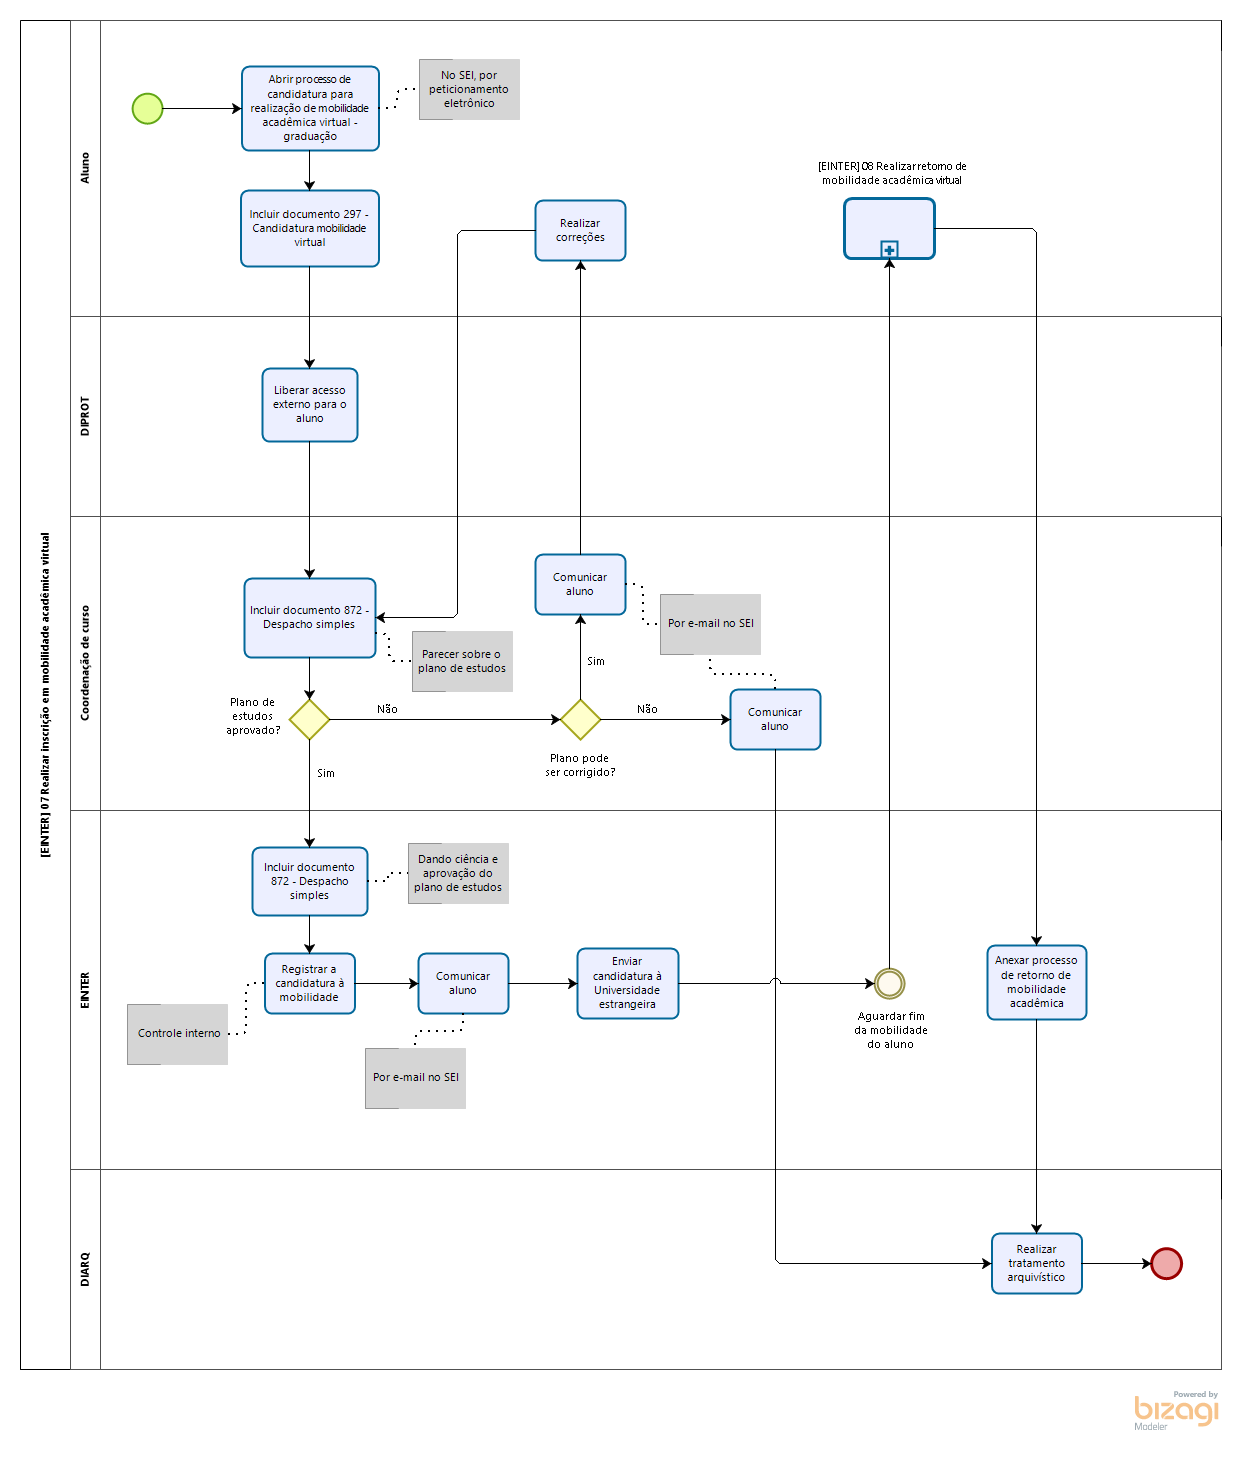
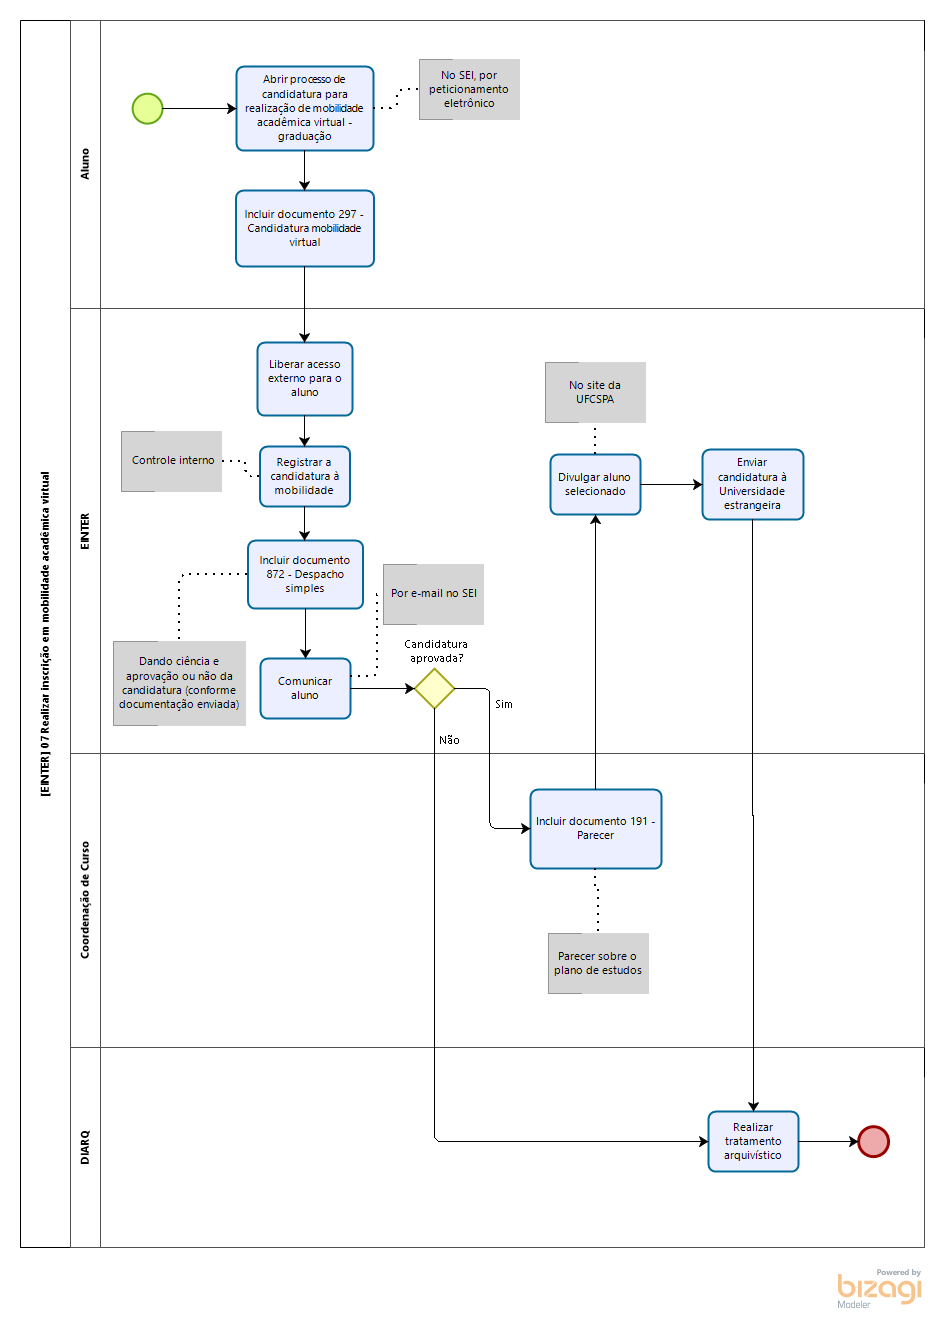
EINTER

diff --git a/EINTER/EINTER 07 Realizar inscrição em mobilidade acadêmica virtual/libs/js/json/configuration.json.js b/EINTER/EINTER 07 Realizar inscrição em mobilidade acadêmica virtual/libs/js/json/configuration.json.js
@@ -1,1 +1,1 @@
-Bizagi.AppModel = {"personalized":false,"userLogoName":"\\libs\\img\\biz-ex-logo.png","bizagiUrl":"http://www.bizagi.com","productName":"Bizagi Modeler","modelName":"[EINTER] 07 Realizar inscrição em mobilidade acadêmica virtual","publishDate":"08/01/2021 16:09:59","pages":[{"id":"bd65ea29-fe01-41e2-ac18-f9216eb6a3e4","name":"[EINTER] 07 Realizar inscrição em mobilidade acadêmica virtual","version":"1.0","author":"ariel","image":"files\\diagrams\\EINTER]_07_Realizar_inscricao_em_mobilidade_academica_virtual.png","isSubprocessPage":false,"elements":[{"id":"052716db-96c6-403f-a4b2-4a5cc1fde8a3","name":"[EINTER] 07 Realizar inscrição em mobilidade acadêmica virtual","elementImage":"files\\bpmnElements\\Participant.png","imageBounds":{"points":[{"x":20.0,"y":20.0}],"radius":0.0,"height":1349.0,"width":50.0,"shape":"rect"},"elementType":"Participant","properties":[],"pageElements":[{"id":"376d906c-615d-4899-b999-ecc5d0caaed7","name":"Nenhum início","elementImage":"files\\bpmnElements\\NoneStart.png","imageBounds":{"points":[{"x":132.0,"y":93.0}],"radius":15.0,"height":30.0,"width":30.0,"shape":"circle"},"elementType":"NoneStart"},{"id":"8fa2b779-43ec-4048-b458-a8caac88d4a4","name":"Abrir processo de  candidatura para realização de mobilidade acadêmica virtual - graduação","elementImage":"files\\bpmnElements\\AbstractTask.png","imageBounds":{"points":[{"x":241.5,"y":66.0}],"radius":0.0,"height":84.0,"width":137.0,"shape":"rect"},"elementType":"AbstractTask","properties":[]},{"id":"4cb5a535-b1b9-4ac0-899f-54eb8167627f","name":"Incluir documento 297 - Candidatura mobilidade virtual","elementImage":"files\\bpmnElements\\AbstractTask.png","imageBounds":{"points":[{"x":240.5,"y":190.0}],"radius":0.0,"height":76.0,"width":138.0,"shape":"rect"},"elementType":"AbstractTask","properties":[]},{"id":"42d70476-98c9-4855-bb46-4884d1083e8d","name":"Liberar acesso externo para o aluno","elementImage":"files\\bpmnElements\\AbstractTask.png","imageBounds":{"points":[{"x":262.0,"y":368.0}],"radius":0.0,"height":73.0,"width":95.0,"shape":"rect"},"elementType":"AbstractTask","properties":[]},{"id":"ef36c856-b52e-4ab9-acda-3b783efdb496","name":"Incluir documento 872 - Despacho simples ","elementImage":"files\\bpmnElements\\AbstractTask.png","imageBounds":{"points":[{"x":244.0,"y":578.0}],"radius":0.0,"height":79.0,"width":131.0,"shape":"rect"},"elementType":"AbstractTask","properties":[]},{"id":"84a6887e-ba01-4649-a47c-2a154c82e5f9","name":"Plano de estudos aprovado?","elementImage":"files\\bpmnElements\\ExclusiveGateway.png","imageBounds":{"points":[{"x":289.0,"y":699.0}],"radius":0.0,"height":40.0,"width":40.0,"shape":"poly"},"elementType":"ExclusiveGateway","properties":[],"pageElements":[{"name":"Sim","elementType":"SequenceFlow","properties":[]},{"name":"Não","elementType":"SequenceFlow","properties":[]}]},{"id":"c66d4d70-f8e2-4d1c-aa37-a35e3aae4642","name":"Plano pode ser corrigido?","elementImage":"files\\bpmnElements\\ExclusiveGateway.png","imageBounds":{"points":[{"x":560.0,"y":699.0}],"radius":0.0,"height":40.0,"width":40.0,"shape":"poly"},"elementType":"ExclusiveGateway","properties":[],"pageElements":[{"name":"Sim","elementType":"SequenceFlow","properties":[]},{"name":"Não","elementType":"SequenceFlow","properties":[]}]},{"id":"8ff3f7c3-0e22-4d58-9351-d42d6866b0cc","name":"Comunicar aluno","elementImage":"files\\bpmnElements\\AbstractTask.png","imageBounds":{"points":[{"x":535.0,"y":554.0}],"radius":0.0,"height":60.0,"width":90.0,"shape":"rect"},"elementType":"AbstractTask","properties":[]},{"id":"a11748b0-8211-42f4-99de-b8b9e199ff9f","name":"Realizar correções","elementImage":"files\\bpmnElements\\AbstractTask.png","imageBounds":{"points":[{"x":535.0,"y":200.0}],"radius":0.0,"height":60.0,"width":90.0,"shape":"rect"},"elementType":"AbstractTask","properties":[]},{"id":"cc6d6bed-1e25-4943-b72e-42fefe28dd47","name":"Comunicar aluno","elementImage":"files\\bpmnElements\\AbstractTask.png","imageBounds":{"points":[{"x":730.0,"y":689.0}],"radius":0.0,"height":60.0,"width":90.0,"shape":"rect"},"elementType":"AbstractTask","properties":[]},{"id":"979bfed8-f954-4f9a-bfde-8d8726f8639c","name":"Incluir documento 872 - Despacho simples ","elementImage":"files\\bpmnElements\\AbstractTask.png","imageBounds":{"points":[{"x":252.0,"y":847.0}],"radius":0.0,"height":68.0,"width":115.0,"shape":"rect"},"elementType":"AbstractTask","properties":[]},{"id":"a2bded42-af9f-44bd-87d3-6cef78c61279","name":"Registrar a candidatura à mobilidade","elementImage":"files\\bpmnElements\\AbstractTask.png","imageBounds":{"points":[{"x":264.5,"y":953.0}],"radius":0.0,"height":60.0,"width":90.0,"shape":"rect"},"elementType":"AbstractTask","properties":[]},{"id":"f96fb8c9-8880-4615-a2c4-05f39bbeead2","name":"Comunicar aluno","elementImage":"files\\bpmnElements\\AbstractTask.png","imageBounds":{"points":[{"x":418.0,"y":953.0}],"radius":0.0,"height":60.0,"width":90.0,"shape":"rect"},"elementType":"AbstractTask","properties":[]},{"id":"560b2b6a-8f29-4e23-ba32-2116db9aea9e","name":"Enviar candidatura à Universidade estrangeira","elementImage":"files\\bpmnElements\\AbstractTask.png","imageBounds":{"points":[{"x":577.0,"y":948.0}],"radius":0.0,"height":70.0,"width":101.0,"shape":"rect"},"elementType":"AbstractTask","properties":[]},{"id":"dff3ca8a-38e1-4236-ad66-352d1def487e","name":"Aguardar fim da mobilidade do aluno","elementImage":"files\\bpmnElements\\NoneIntermediate.png","imageBounds":{"points":[{"x":874.0,"y":968.0}],"radius":15.0,"height":30.0,"width":30.0,"shape":"circle"},"elementType":"NoneIntermediate"},{"id":"1c25a9a7-c770-455f-9044-cf6a7354b4cc","name":"[EINTER] 08 Realizar retorno de mobilidade acadêmica virtual","description":"","elementImage":"files\\bpmnElements\\CallActivity.png","imageBounds":{"points":[{"x":844.0,"y":198.0}],"radius":0.0,"height":60.0,"width":90.0,"shape":"rect"},"elementType":"CallActivity","properties":[],"presentationAction":{"value":"https://wwwnqiportai.github.io/EINTER/EINTER%2008%20Realizar%20retorno%20de%20mobilidade%20acad%C3%AAmica%20virtual/","type":"url"}},{"id":"f0194ab9-00ea-4997-a4df-96325e6061f3","name":"Anexar processo de retorno de mobilidade acadêmica","elementImage":"files\\bpmnElements\\AbstractTask.png","imageBounds":{"points":[{"x":987.0,"y":945.0}],"radius":0.0,"height":74.0,"width":99.0,"shape":"rect"},"elementType":"AbstractTask","properties":[]},{"id":"ebe4716f-b19d-49ba-9ed9-ff1eda2f411a","name":"Realizar tratamento arquivístico","elementImage":"files\\bpmnElements\\AbstractTask.png","imageBounds":{"points":[{"x":991.5,"y":1233.0}],"radius":0.0,"height":60.0,"width":90.0,"shape":"rect"},"elementType":"AbstractTask","properties":[]},{"id":"4783856a-dd1f-4756-84d8-7be19638b4da","name":"Nenhum final","elementImage":"files\\bpmnElements\\NoneEnd.png","imageBounds":{"points":[{"x":1151.0,"y":1248.0}],"radius":15.0,"height":30.0,"width":30.0,"shape":"circle"},"elementType":"NoneEnd"},{"id":"4bb7c10d-ca9e-4c86-8ca3-7a91987bfb23","name":"Aluno","elementImage":"files\\bpmnElements\\Lane.png","imageBounds":{"points":[{"x":70.0,"y":20.0}],"radius":0.0,"height":296.0,"width":30.0,"shape":"rect"},"elementType":"Lane"},{"id":"335fc6f8-093d-4cbd-a12b-d77aacd9b164","name":"DIPROT","elementImage":"files\\bpmnElements\\Lane.png","imageBounds":{"points":[{"x":70.0,"y":316.0}],"radius":0.0,"height":200.0,"width":30.0,"shape":"rect"},"elementType":"Lane"},{"id":"3a255bd2-904d-452b-b5f6-07aabdf863f1","name":"Coordenação de curso","elementImage":"files\\bpmnElements\\Lane.png","imageBounds":{"points":[{"x":70.0,"y":516.0}],"radius":0.0,"height":294.0,"width":30.0,"shape":"rect"},"elementType":"Lane"},{"id":"0d7375a8-e93a-4aea-834f-035980d1603b","name":"EINTER","elementImage":"files\\bpmnElements\\Lane.png","imageBounds":{"points":[{"x":70.0,"y":810.0}],"radius":0.0,"height":359.0,"width":30.0,"shape":"rect"},"elementType":"Lane"},{"id":"f4b897c4-0554-414d-b815-799ae5c12e04","name":"DIARQ","elementImage":"files\\bpmnElements\\Lane.png","imageBounds":{"points":[{"x":70.0,"y":1169.0}],"radius":0.0,"height":200.0,"width":30.0,"shape":"rect"},"elementType":"Lane"}]}]}],"texts":{"tableOfContents":"Índice","pageNumber":"Página","pageNumberLabelOf":"de","version":"Versão","author":"Autor","description":"Descrição","mainPool":"Processo principal","mainPoolDescription":"Processo principal Descrição","processDiagrams":"Processar os Diagramas","processElements":"Elementos do processo","elements":"Elementos do processo","defaultElementName":"Elemento","performers":"Executantes","accountable":"Autoridade","consulted":"Consultado","informed":"Informado","connectors":"Conectores","connector":"Conector","home":"Principal","search":"Pesquisar","goToParentProcess":"<< Ir para Matriz","visitBizagi":"Visite bizagi.com","contains":"Contém {0} subprocessos","showAll":"Show all","fullScreen":"Tela inteira","zoomIn":"Ampliar","zoomOut":"Reduzir","close":"Fechar","menu":"Menu: ","errorPage":"Erro ao visualizar a página","process":"Processo","subProcess":"Subprocessos publicados","contain":"Contém","checkAttributes":"Ver atributos","checkOverview":"Ver resumo","unavailableResource":"O recurso não está disponível","localResource":"O recurso pode ser acessado localmente","performer":"Participantes","linktoimage":"Link para a  imagem","presentationAction":"Ações de apresentação","searchGlobal":"Busca todos","searchLocal":"Busca neste processo","searchResults":"Nenhum resultado encontrado","titlePage":"Start","emptyElement":"Este elemento ainda não foi documentado","unsupported":"Seu navegador não suporta conteúdo exibido por esta página. <br> Recomendamos que você atualizar o seu navegador.","details":"Detalhes","expand":"Expandir","mainPoolProperties":"Propriedades do Processo principal","cannotVisualize":"The page cannot be displayed","resourceNotFound":"The requested resource was not found:","applyTheme":"Applying new theme"},"searchMap":[{"containerId":"bd65ea29-fe01-41e2-ac18-f9216eb6a3e4","containerName":"[EINTER] 07 Realizar inscrição em mobilidade acadêmica virtual","isSubprocess":false,"elements":[{"id":"052716db-96c6-403f-a4b2-4a5cc1fde8a3","value":"[EINTER] 07 Realizar inscrição em mobilidade acadêmica virtual"},{"id":"4bb7c10d-ca9e-4c86-8ca3-7a91987bfb23","value":"Aluno"},{"id":"335fc6f8-093d-4cbd-a12b-d77aacd9b164","value":"DIPROT"},{"id":"3a255bd2-904d-452b-b5f6-07aabdf863f1","value":"Coordenação de curso"},{"id":"0d7375a8-e93a-4aea-834f-035980d1603b","value":"EINTER"},{"id":"f4b897c4-0554-414d-b815-799ae5c12e04","value":"DIARQ"},{"id":"376d906c-615d-4899-b999-ecc5d0caaed7","value":""},{"id":"8fa2b779-43ec-4048-b458-a8caac88d4a4","value":"Abrir processo de  candidatura para realização de mobilidade acadêmica virtual - graduação"},{"id":"a2bded42-af9f-44bd-87d3-6cef78c61279","value":"Registrar a candidatura à mobilidade"},{"id":"dff3ca8a-38e1-4236-ad66-352d1def487e","value":"Aguardar fim da mobilidade do aluno"},{"id":"4cb5a535-b1b9-4ac0-899f-54eb8167627f","value":"Incluir documento 297 - Candidatura mobilidade virtual"},{"id":"ef36c856-b52e-4ab9-acda-3b783efdb496","value":"Incluir documento 872 - Despacho simples "},{"id":"979bfed8-f954-4f9a-bfde-8d8726f8639c","value":"Incluir documento 872 - Despacho simples "},{"id":"42d70476-98c9-4855-bb46-4884d1083e8d","value":"Liberar acesso externo para o aluno"},{"id":"84a6887e-ba01-4649-a47c-2a154c82e5f9","value":"Plano de estudos aprovado?"},{"id":"c66d4d70-f8e2-4d1c-aa37-a35e3aae4642","value":"Plano pode ser corrigido?"},{"id":"a11748b0-8211-42f4-99de-b8b9e199ff9f","value":"Realizar correções"},{"id":"cc6d6bed-1e25-4943-b72e-42fefe28dd47","value":"Comunicar aluno"},{"id":"f96fb8c9-8880-4615-a2c4-05f39bbeead2","value":"Comunicar aluno"},{"id":"560b2b6a-8f29-4e23-ba32-2116db9aea9e","value":"Enviar candidatura à Universidade estrangeira"},{"id":"ebe4716f-b19d-49ba-9ed9-ff1eda2f411a","value":"Realizar tratamento arquivístico"},{"id":"4783856a-dd1f-4756-84d8-7be19638b4da","value":""},{"id":"1c25a9a7-c770-455f-9044-cf6a7354b4cc","value":"[EINTER] 08 Realizar retorno de mobilidade acadêmica virtual"},{"id":"f0194ab9-00ea-4997-a4df-96325e6061f3","value":"Anexar processo de retorno de mobilidade acadêmica"},{"id":"8ff3f7c3-0e22-4d58-9351-d42d6866b0cc","value":"Comunicar aluno"},{"id":"db2e6c71-6d70-48f4-aca6-6a6364eb7fd9"},{"id":"29ebc40d-500e-4de2-a3c4-78f6b7c68285"},{"id":"e6734c19-3bf6-43ae-8f5f-4d5109a8841a"},{"id":"e0dcfdb4-3cfe-43c6-aa21-4d9ac23d1e1a"},{"id":"151efbe0-81cd-4ed1-be7a-58718622ba72"},{"id":"e5a07831-55c6-4224-a223-3d1f7d9ba07e"},{"id":"0d490eb5-2c23-45e9-ae5f-8398f1c7eaf0"},{"id":"52d7683c-7922-4edb-880d-f957bb4d8a63"},{"id":"5d9b795f-45c2-4ca5-8bf3-cb5513f3e7e2"},{"id":"7ad2035f-ad58-4d84-9424-f5030e60d7c2"},{"id":"cceae61b-0138-4ffe-b659-84153b6df7b4"},{"id":"eaeb8f85-34ef-43c4-9c55-037e504933a2"},{"id":"670fb830-9b52-471f-9dcf-409a5a32c24f"}]}]}
+Bizagi.AppModel = {"personalized":false,"userLogoName":"\\libs\\img\\biz-ex-logo.png","bizagiUrl":"http://www.bizagi.com","productName":"Bizagi Modeler","modelName":"[EINTER] 07 Realizar inscrição em mobilidade acadêmica virtual","publishDate":"26/01/2021 23:07:50","pages":[{"id":"bd65ea29-fe01-41e2-ac18-f9216eb6a3e4","name":"[EINTER] 07 Realizar inscrição em mobilidade acadêmica virtual","version":"1.0","author":"ariel","image":"files\\diagrams\\EINTER]_07_Realizar_inscricao_em_mobilidade_academica_virtual.png","isSubprocessPage":false,"elements":[{"id":"052716db-96c6-403f-a4b2-4a5cc1fde8a3","name":"[EINTER] 07 Realizar inscrição em mobilidade acadêmica virtual","elementImage":"files\\bpmnElements\\Participant.png","imageBounds":{"points":[{"x":20.0,"y":20.0}],"radius":0.0,"height":1227.0,"width":50.0,"shape":"rect"},"elementType":"Participant","properties":[],"pageElements":[{"id":"376d906c-615d-4899-b999-ecc5d0caaed7","name":"Nenhum início","elementImage":"files\\bpmnElements\\NoneStart.png","imageBounds":{"points":[{"x":132.0,"y":93.0}],"radius":15.0,"height":30.0,"width":30.0,"shape":"circle"},"elementType":"NoneStart"},{"id":"8fa2b779-43ec-4048-b458-a8caac88d4a4","name":"Abrir processo de  candidatura para realização de mobilidade acadêmica virtual - graduação","elementImage":"files\\bpmnElements\\AbstractTask.png","imageBounds":{"points":[{"x":236.0,"y":66.0}],"radius":0.0,"height":84.0,"width":137.0,"shape":"rect"},"elementType":"AbstractTask","properties":[]},{"id":"4cb5a535-b1b9-4ac0-899f-54eb8167627f","name":"Incluir documento 297 - Candidatura mobilidade virtual","elementImage":"files\\bpmnElements\\AbstractTask.png","imageBounds":{"points":[{"x":235.5,"y":190.0}],"radius":0.0,"height":76.0,"width":138.0,"shape":"rect"},"elementType":"AbstractTask","properties":[]},{"id":"42d70476-98c9-4855-bb46-4884d1083e8d","name":"Liberar acesso externo para o aluno","elementImage":"files\\bpmnElements\\AbstractTask.png","imageBounds":{"points":[{"x":257.0,"y":342.0}],"radius":0.0,"height":73.0,"width":95.0,"shape":"rect"},"elementType":"AbstractTask","properties":[]},{"id":"a2bded42-af9f-44bd-87d3-6cef78c61279","name":"Registrar a candidatura à mobilidade","elementImage":"files\\bpmnElements\\AbstractTask.png","imageBounds":{"points":[{"x":259.5,"y":446.0}],"radius":0.0,"height":60.0,"width":90.0,"shape":"rect"},"elementType":"AbstractTask","properties":[]},{"id":"979bfed8-f954-4f9a-bfde-8d8726f8639c","name":"Incluir documento 872 - Despacho simples ","elementImage":"files\\bpmnElements\\AbstractTask.png","imageBounds":{"points":[{"x":247.5,"y":540.0}],"radius":0.0,"height":68.0,"width":115.0,"shape":"rect"},"elementType":"AbstractTask","properties":[]},{"id":"f96fb8c9-8880-4615-a2c4-05f39bbeead2","name":"Comunicar aluno","elementImage":"files\\bpmnElements\\AbstractTask.png","imageBounds":{"points":[{"x":260.0,"y":658.0}],"radius":0.0,"height":60.0,"width":90.0,"shape":"rect"},"elementType":"AbstractTask","properties":[]},{"id":"1b7f43f2-419e-403b-af55-acf4e136abc6","name":"Candidatura aprovada?","elementImage":"files\\bpmnElements\\ExclusiveGateway.png","imageBounds":{"points":[{"x":414.0,"y":668.0}],"radius":0.0,"height":40.0,"width":40.0,"shape":"poly"},"elementType":"ExclusiveGateway","properties":[],"pageElements":[{"name":"Sim","elementType":"SequenceFlow","properties":[]},{"name":"Não","elementType":"SequenceFlow","properties":[]}]},{"id":"ef36c856-b52e-4ab9-acda-3b783efdb496","name":"Incluir documento 191 - Parecer ","elementImage":"files\\bpmnElements\\AbstractTask.png","imageBounds":{"points":[{"x":530.0,"y":789.0}],"radius":0.0,"height":79.0,"width":131.0,"shape":"rect"},"elementType":"AbstractTask","properties":[]},{"id":"339c21ad-7bbc-4a08-b08f-bb8d35d36daf","name":"Divulgar aluno selecionado","elementImage":"files\\bpmnElements\\AbstractTask.png","imageBounds":{"points":[{"x":550.0,"y":454.0}],"radius":0.0,"height":60.0,"width":90.0,"shape":"rect"},"elementType":"AbstractTask","properties":[]},{"id":"560b2b6a-8f29-4e23-ba32-2116db9aea9e","name":"Enviar candidatura à Universidade estrangeira","elementImage":"files\\bpmnElements\\AbstractTask.png","imageBounds":{"points":[{"x":702.0,"y":449.0}],"radius":0.0,"height":70.0,"width":101.0,"shape":"rect"},"elementType":"AbstractTask","properties":[]},{"id":"ebe4716f-b19d-49ba-9ed9-ff1eda2f411a","name":"Realizar tratamento arquivístico","elementImage":"files\\bpmnElements\\AbstractTask.png","imageBounds":{"points":[{"x":708.0,"y":1111.0}],"radius":0.0,"height":60.0,"width":90.0,"shape":"rect"},"elementType":"AbstractTask","properties":[]},{"id":"4783856a-dd1f-4756-84d8-7be19638b4da","name":"Nenhum final","elementImage":"files\\bpmnElements\\NoneEnd.png","imageBounds":{"points":[{"x":858.0,"y":1126.0}],"radius":15.0,"height":30.0,"width":30.0,"shape":"circle"},"elementType":"NoneEnd"},{"id":"4bb7c10d-ca9e-4c86-8ca3-7a91987bfb23","name":"Aluno","elementImage":"files\\bpmnElements\\Lane.png","imageBounds":{"points":[{"x":70.0,"y":20.0}],"radius":0.0,"height":288.0,"width":30.0,"shape":"rect"},"elementType":"Lane"},{"id":"0d7375a8-e93a-4aea-834f-035980d1603b","name":"EINTER","elementImage":"files\\bpmnElements\\Lane.png","imageBounds":{"points":[{"x":70.0,"y":308.0}],"radius":0.0,"height":445.0,"width":30.0,"shape":"rect"},"elementType":"Lane"},{"id":"3a255bd2-904d-452b-b5f6-07aabdf863f1","name":"Coordenação de Curso","elementImage":"files\\bpmnElements\\Lane.png","imageBounds":{"points":[{"x":70.0,"y":753.0}],"radius":0.0,"height":294.0,"width":30.0,"shape":"rect"},"elementType":"Lane"},{"id":"f4b897c4-0554-414d-b815-799ae5c12e04","name":"DIARQ","elementImage":"files\\bpmnElements\\Lane.png","imageBounds":{"points":[{"x":70.0,"y":1047.0}],"radius":0.0,"height":200.0,"width":30.0,"shape":"rect"},"elementType":"Lane"}]}]}],"texts":{"tableOfContents":"Índice","pageNumber":"Página","pageNumberLabelOf":"de","version":"Versão","author":"Autor","description":"Descrição","mainPool":"Processo principal","mainPoolDescription":"Processo principal Descrição","processDiagrams":"Processar os Diagramas","processElements":"Elementos do processo","elements":"Elementos do processo","defaultElementName":"Elemento","performers":"Executantes","accountable":"Autoridade","consulted":"Consultado","informed":"Informado","connectors":"Conectores","connector":"Conector","home":"Principal","search":"Pesquisar","goToParentProcess":"<< Ir para Matriz","visitBizagi":"Visite bizagi.com","contains":"Contém {0} subprocessos","showAll":"Show all","fullScreen":"Tela inteira","zoomIn":"Ampliar","zoomOut":"Reduzir","close":"Fechar","menu":"Menu: ","errorPage":"Erro ao visualizar a página","process":"Processo","subProcess":"Subprocessos publicados","contain":"Contém","checkAttributes":"Ver atributos","checkOverview":"Ver resumo","unavailableResource":"O recurso não está disponível","localResource":"O recurso pode ser acessado localmente","performer":"Participantes","linktoimage":"Link para a  imagem","presentationAction":"Ações de apresentação","searchGlobal":"Busca todos","searchLocal":"Busca neste processo","searchResults":"Nenhum resultado encontrado","titlePage":"Start","emptyElement":"Este elemento ainda não foi documentado","unsupported":"Seu navegador não suporta conteúdo exibido por esta página. <br> Recomendamos que você atualizar o seu navegador.","details":"Detalhes","expand":"Expandir","mainPoolProperties":"Propriedades do Processo principal","cannotVisualize":"The page cannot be displayed","resourceNotFound":"The requested resource was not found:","applyTheme":"Applying new theme"},"searchMap":[{"containerId":"bd65ea29-fe01-41e2-ac18-f9216eb6a3e4","containerName":"[EINTER] 07 Realizar inscrição em mobilidade acadêmica virtual","isSubprocess":false,"elements":[{"id":"052716db-96c6-403f-a4b2-4a5cc1fde8a3","value":"[EINTER] 07 Realizar inscrição em mobilidade acadêmica virtual"},{"id":"4bb7c10d-ca9e-4c86-8ca3-7a91987bfb23","value":"Aluno"},{"id":"0d7375a8-e93a-4aea-834f-035980d1603b","value":"EINTER"},{"id":"3a255bd2-904d-452b-b5f6-07aabdf863f1","value":"Coordenação de Curso"},{"id":"f4b897c4-0554-414d-b815-799ae5c12e04","value":"DIARQ"},{"id":"376d906c-615d-4899-b999-ecc5d0caaed7","value":""},{"id":"8fa2b779-43ec-4048-b458-a8caac88d4a4","value":"Abrir processo de  candidatura para realização de mobilidade acadêmica virtual - graduação"},{"id":"a2bded42-af9f-44bd-87d3-6cef78c61279","value":"Registrar a candidatura à mobilidade"},{"id":"4cb5a535-b1b9-4ac0-899f-54eb8167627f","value":"Incluir documento 297 - Candidatura mobilidade virtual"},{"id":"ef36c856-b52e-4ab9-acda-3b783efdb496","value":"Incluir documento 191 - Parecer "},{"id":"979bfed8-f954-4f9a-bfde-8d8726f8639c","value":"Incluir documento 872 - Despacho simples "},{"id":"42d70476-98c9-4855-bb46-4884d1083e8d","value":"Liberar acesso externo para o aluno"},{"id":"f96fb8c9-8880-4615-a2c4-05f39bbeead2","value":"Comunicar aluno"},{"id":"560b2b6a-8f29-4e23-ba32-2116db9aea9e","value":"Enviar candidatura à Universidade estrangeira"},{"id":"ebe4716f-b19d-49ba-9ed9-ff1eda2f411a","value":"Realizar tratamento arquivístico"},{"id":"4783856a-dd1f-4756-84d8-7be19638b4da","value":""},{"id":"339c21ad-7bbc-4a08-b08f-bb8d35d36daf","value":"Divulgar aluno selecionado"},{"id":"1b7f43f2-419e-403b-af55-acf4e136abc6","value":"Candidatura aprovada?"},{"id":"db2e6c71-6d70-48f4-aca6-6a6364eb7fd9"},{"id":"29ebc40d-500e-4de2-a3c4-78f6b7c68285"},{"id":"e6734c19-3bf6-43ae-8f5f-4d5109a8841a"},{"id":"e0dcfdb4-3cfe-43c6-aa21-4d9ac23d1e1a"},{"id":"e5a07831-55c6-4224-a223-3d1f7d9ba07e"},{"id":"1f0bd1b6-b8b7-4210-b296-f64d0ece2af5"},{"id":"0d490eb5-2c23-45e9-ae5f-8398f1c7eaf0"},{"id":"52d7683c-7922-4edb-880d-f957bb4d8a63"},{"id":"5d9b795f-45c2-4ca5-8bf3-cb5513f3e7e2"},{"id":"7ad2035f-ad58-4d84-9424-f5030e60d7c2"},{"id":"eaeb8f85-34ef-43c4-9c55-037e504933a2"},{"id":"e8a1fb5c-3885-4706-9b7d-182aff6d8662"}]}]}
